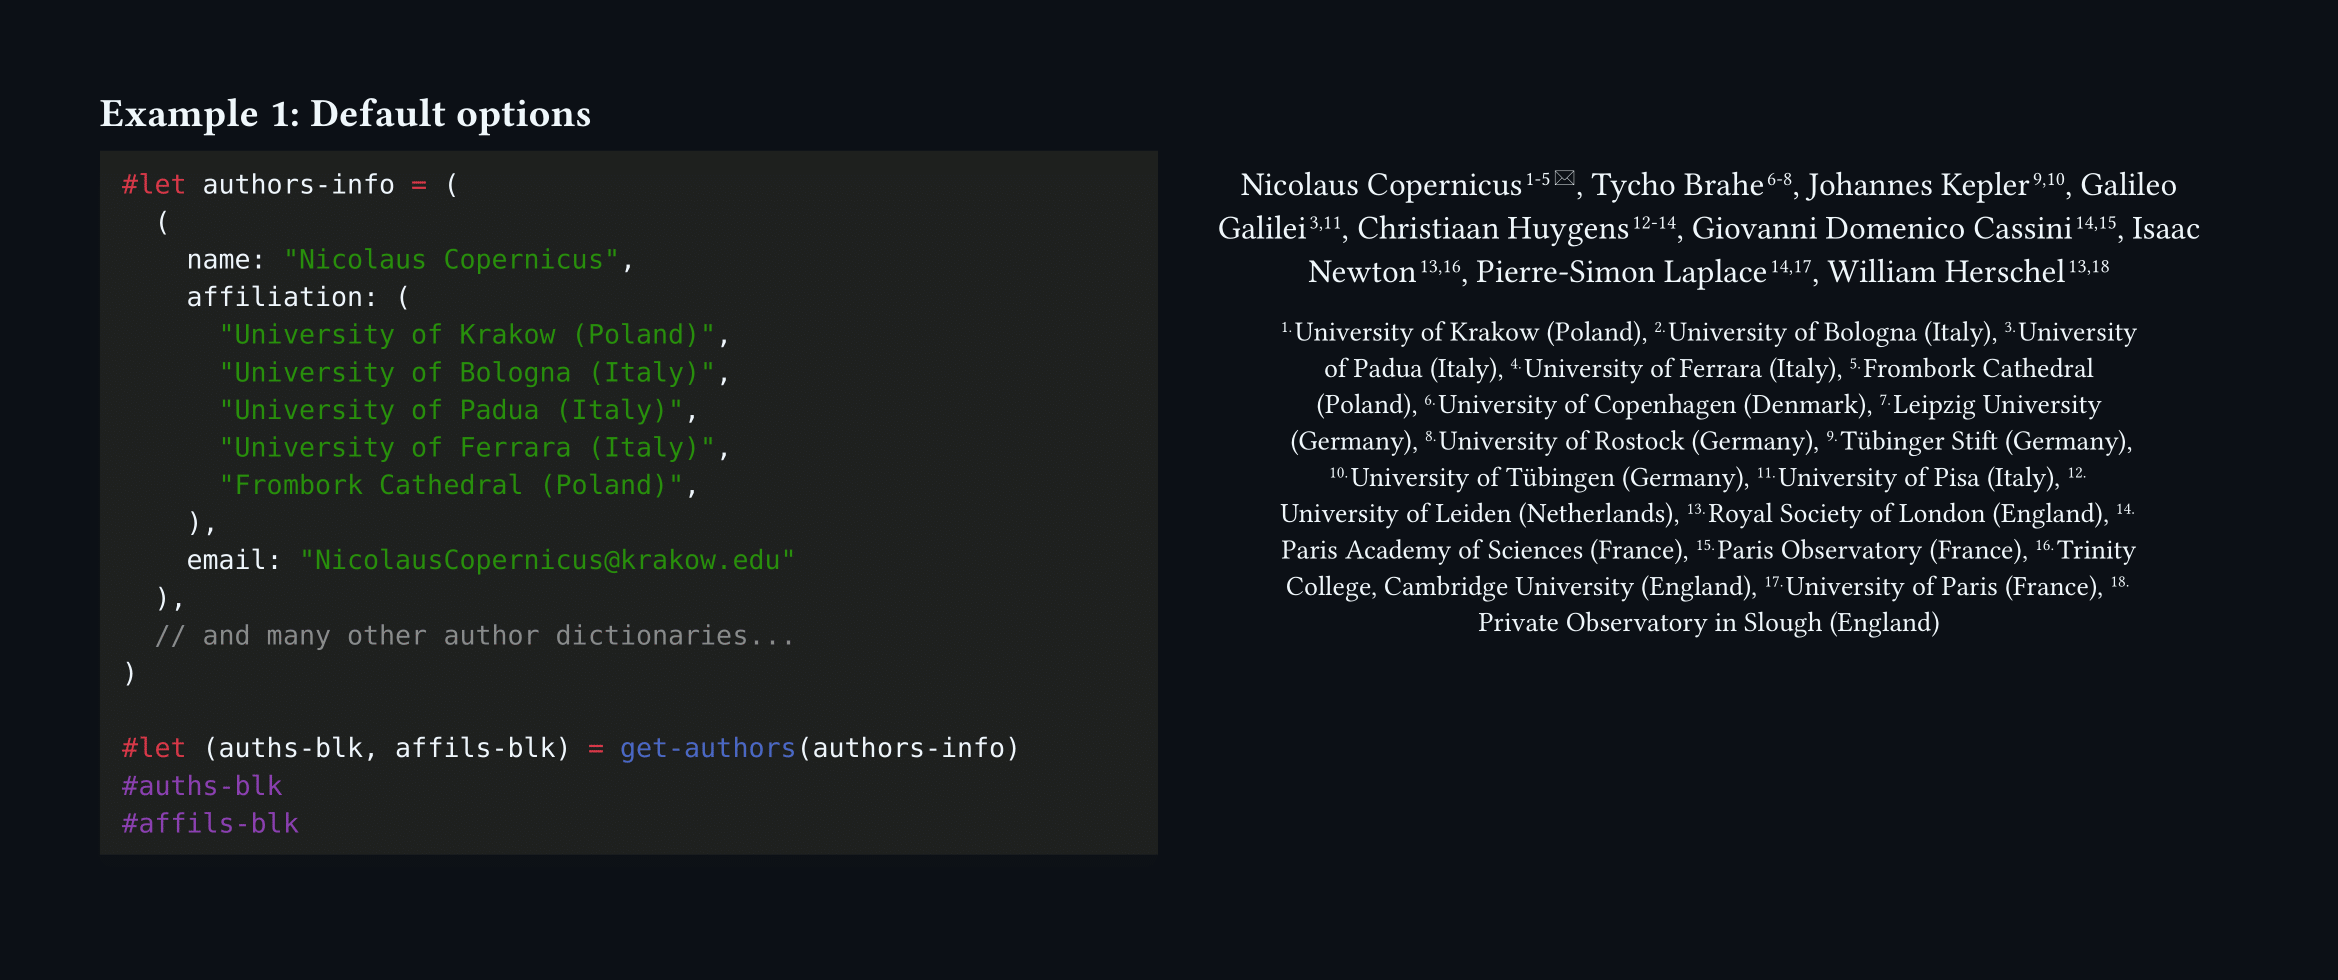
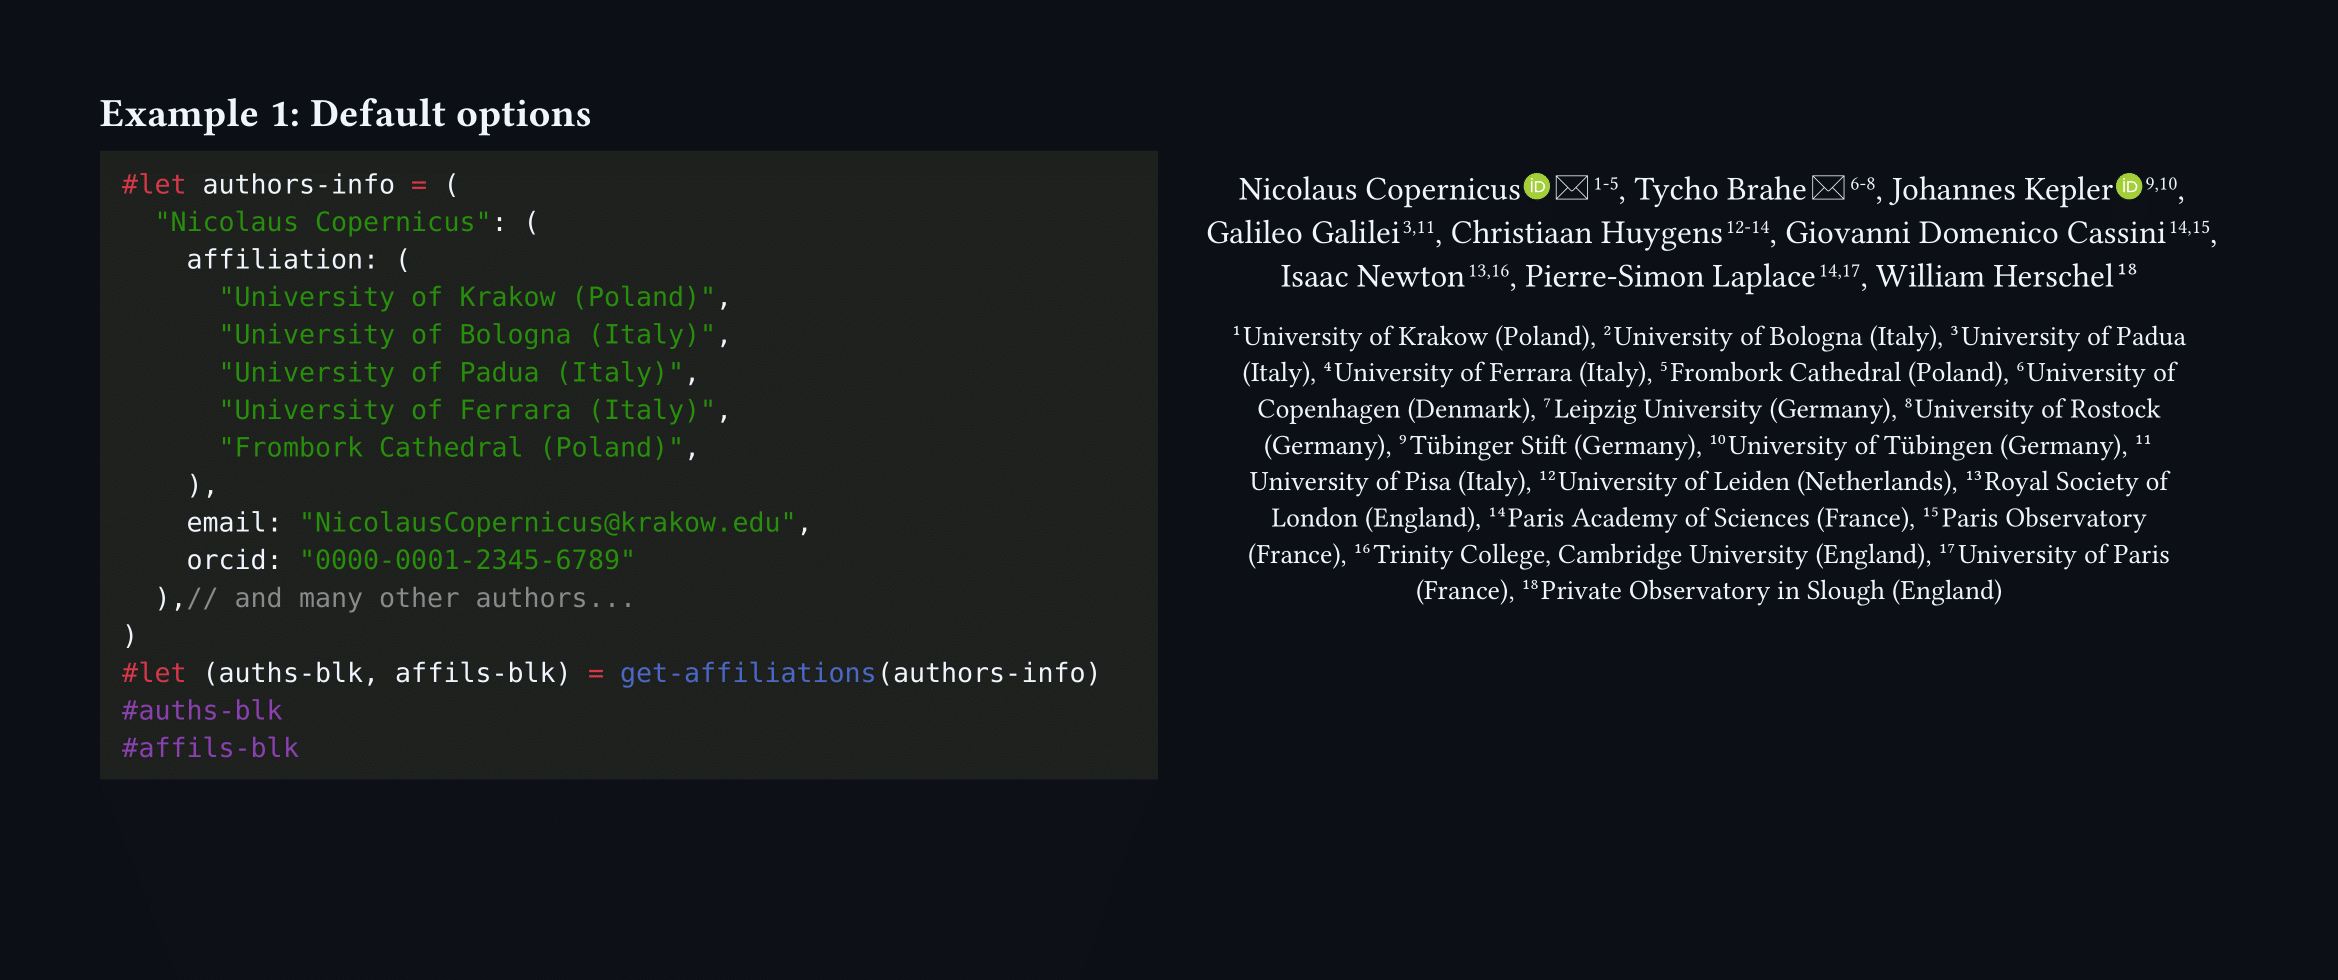
more documents and better comments; new image for README.

diff --git a/README.md b/README.md
@@ -1,6 +1,6 @@
 # typst-affiliation
 
-An auto affiliation function for Typst. This library provides a single function, `get-authors`, which aims to do one thing well: extract affiliation information from a given dictionary and output two contents:
+An auto affiliation function for Typst. This library provides a single function, `get-affiliations`, which aims to do one thing and (hopefully) do one thing well: extract authors' information from a given dictionary and output two contents:
 1. Authors' names with superscripted affiliation indices and an email symbol if contact information is provided.
 2. A list of sorted affiliations.
 
@@ -8,21 +8,54 @@ An auto affiliation function for Typst. This library provides a single function,
 ![Example Output](assets/tests-light.png#gh-light-mode-only)
 ![Example Output](assets/tests-dark.png#gh-dark-mode-only)
 
-## `get-authors`
-The function `get-authors` is highly customizable:
-### Parameters
-- `authors`: An array of strings or dictionaries containing authors' information.
-- `authors-join` (default: ", "): Join script for authors.
-- `authors-numbering` (default: "1"): Numbering style for the superscripted number after each author.
-- `authors-func` (default: `default-authors-func`): Authors style function.
-- `affil-label-numbering` (default: "1."): Numbering style for the index before each affiliation.
-- `affil-label-style` (default: none): Affiliation label style.
-- `affil-join` (default: ", "): Join script for affiliations.
-- `affil-func` (default: `default-affil-func`): Affiliation style function.
-- `email-symbol` (default: "🖂"): Email symbol.
+## `get-affiliations`
+Extracts and formats authors' names and affiliations. The function is highly customizable:
 
-### Returns
-An array of two blocks: authors' block and affiliations' block.
+### Parameters
+- authors: array of strings or dictionaries
+    * An array containing authors' information. Each element can be a string (author's name) or a dictionary with detailed information.
+- authors-join: string (default: ", ")
+    * The string used to join multiple authors' names.
+- authors-join-2: string (default: " and ")
+    * The string used to join two authors' names.
+- authors-func: function (default: default-authors-func)
+    * A function to style the authors' block.
+- authors-numbering: string (default: "1")
+    * The numbering style for affiliation indices in authors.
+- orcid-logo-size: length (default: 9.5pt)
+    * The size of the ORCID logo.
+- email-symbol: string (default: "🖂")
+    * The symbol used to denote email addresses.
+- authors-order: array (default: ("name", "orcid", "email", "affil-index"))
+    * The order of elements within each author box.
+- name-style: function (default: x => x)
+    * A function to style the author's name.
+- orcid-style: function (default: x => link(x, orcid-logo))
+    * A function to style the ORCID link.
+- email-style: function (default: x => link(x, email-symbol))
+    * A function to style the email link.
+- affil-indices-style: function (default: x => super(x))
+    * A function to style the affiliation indices.
+- authors-box-join: string (default: " ")
+    * The string used to join elements within each author box.
+- affil-label-numbering: string (default: "1.")
+    * The numbering style for affiliations.
+- affil-label-style: function (default: x => super(x))
+    * A function to style the affiliation labels.
+- affil-join: string (default: ", ")
+    * The string used to join multiple affiliations.
+- affil-func: function (default: default-affil-func)
+    * A function to style the affiliations' block.
+- affil-style: function (default: x => x)
+    * A function to style each affiliation.
+- affil-box-join: string (default: " ")
+    * The string used to join elements within each affiliation box.
+- affil-order: tuple (default: ("number", "affil"))
+    * The order of elements within each affiliation box.
+
+### Return
+- array of two blocks
+    * An array containing two blocks: the authors' block and the affiliations' block.
 
 ### Default functions
 ```typst
